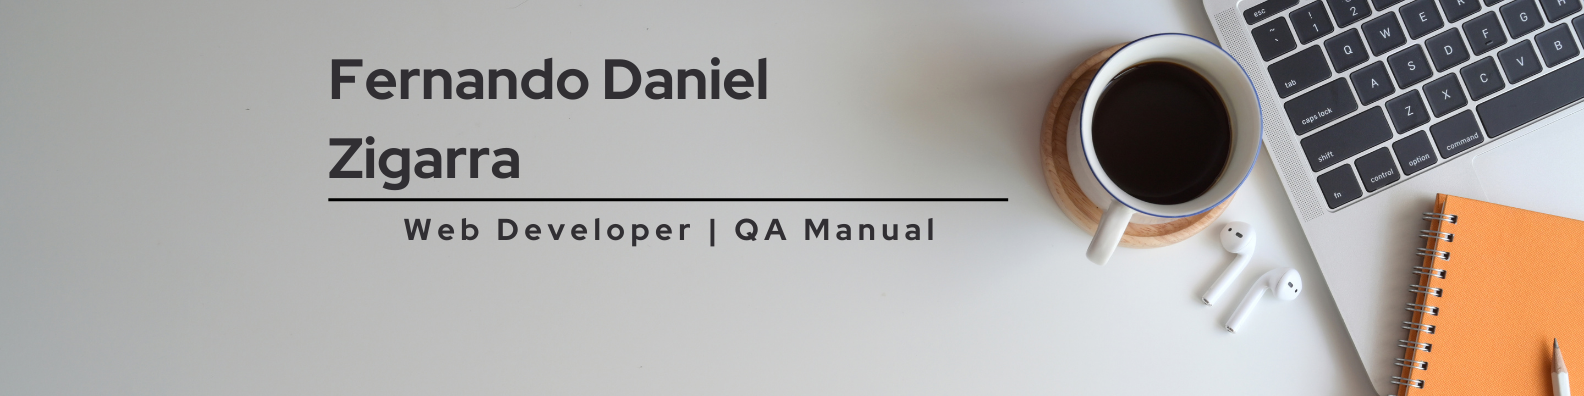
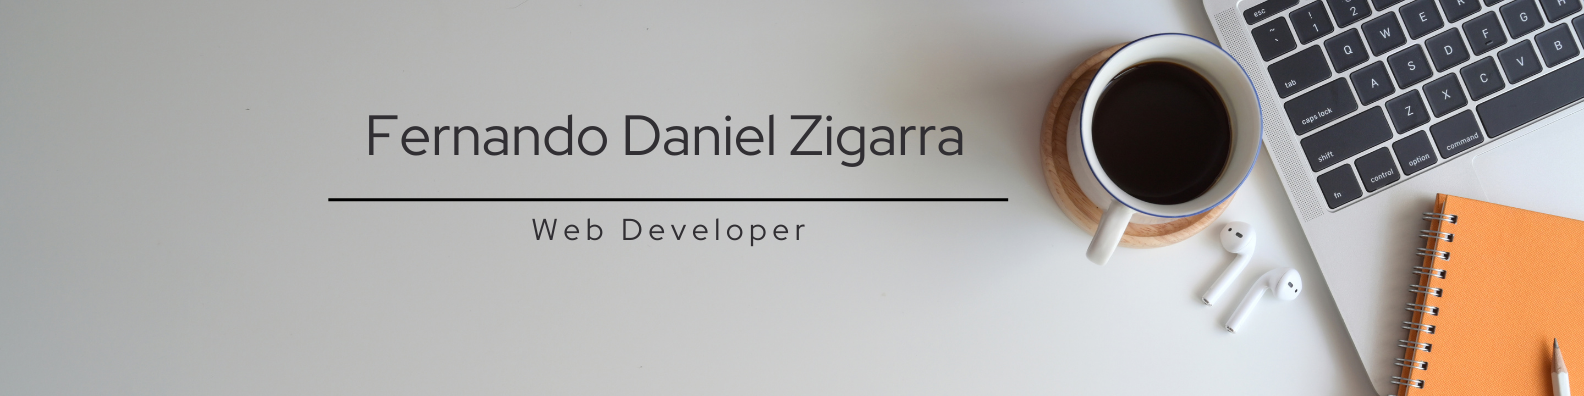
Rework profile

Changed region(s): [[0.1856, 0.1515, 0.6187, 0.4848], [0.2475, 0.5455, 0.5878, 0.6061]]

diff --git a/README.md b/README.md
@@ -1,4 +1,3 @@
-
 <h1 style="text-align: center;"> Hi! I'm <a href="https://porfolio-fernando-zigarra.vercel.app/">Fernando Daniel Zigarra 👋</a></h1>
 <img src="./assets/banner.png" style="width: 100%;object-fit: cover"/>
 
@@ -6,34 +5,70 @@
 [![Forks][forks-shield]][forks-url]
 [![Stargazers][stars-shield]][stars-url]
 
-### 👨🏻💻 &nbsp;About Me
-💡 &nbsp;I like to explore new technologies and develop software solutions and quick hacks.\
-🌱 &nbsp;I’m currently learning Web Development and other programming languages.\
-👯 &nbsp;I’m looking to collaborate on Proyectos.\
-💬 &nbsp;Ask me about Programming or QA Testing
+### 👨🏻💻 &nbsp;Professional Profile
+
+💡 &nbsp;Full Stack Web Developer with experience in **React, Next.js, TypeScript, TailwindCSS, and GraphQL**.  
+🚀 &nbsp;Passionate about **scalable and efficient development**, focusing on **TDD and Agile (Scrum)**.  
+🔧 &nbsp;Experience in **Docker deployments, GitHub version control, and Jira project management**.  
+📌 &nbsp;Strong problem-solving skills and workflow optimization in **agile development environments**.
+
+<img alt="Night Coding" src="https://miro.medium.com/v2/resize:fit:1400/1*yw0TnheAGN-LPneDaTlaxw.gif"/>
+
+</br>
 
 ### 🛠 &nbsp;Tech Stack
-<img alt="Night Coding" src="https://raw.githubusercontent.com/AVS1508/AVS1508/master/assets/Night-Coding.gif" align="right"/>
 
- [![Nodejs][Nodejs.org]][Nodejs-url]
- [![html5][html5.com]][html5-url]
- [![css3][css3.com]][css3-url]
- [![Javascript.js]][Javascript-url]
- ![TypeScript Badge](https://img.shields.io/badge/TypeScript-3178C6?logo=typescript&logoColor=fff&style=for-the-badge)
- ![Python Badge](https://img.shields.io/badge/Python-3776AB?logo=python&logoColor=fff&style=for-the-badge)
- ![Express Badge](https://img.shields.io/badge/Express-000?logo=express&logoColor=fff&style=for-the-badge)
- [![React][React.js]][React-url]
- ![Next.js Badge](https://img.shields.io/badge/Next.js-000?logo=nextdotjs&logoColor=fff&style=for-the-badge)
- [![MySql][MySql.io]][MySql-url]
- ![MongoDB Badge](https://img.shields.io/badge/MongoDB-47A248?logo=mongodb&logoColor=fff&style=for-the-badge)
- [![Bootstrap][Bootstrap.com]][Bootstrap-url]
- ![Tailwind CSS Badge](https://img.shields.io/badge/Tailwind%20CSS-06B6D4?logo=tailwindcss&logoColor=fff&style=for-the-badge)
- ![Jest Badge](https://img.shields.io/badge/Jest-C21325?logo=jest&logoColor=fff&style=for-the-badge)
-![Static Badge](https://img.shields.io/badge/SCRUM-scrum?style=for-the-badge&link=https%3A%2F%2Fwww.scrum.org)
-![Git Badge](https://img.shields.io/badge/Git-F05032?logo=git&logoColor=fff&style=for-the-badge)
-![Jira Software Badge](https://img.shields.io/badge/Jira%20Software-0052CC?logo=jirasoftware&logoColor=fff&style=for-the-badge)
+**Programming Languages:**
 
-<br>
+<p>
+  <img src="https://img.shields.io/badge/JavaScript-35495E?logo=javascript&logoColor=F1C232&style=for-the-badge">
+  <img src="https://img.shields.io/badge/TypeScript-3178C6?logo=typescript&logoColor=fff&style=for-the-badge">
+  <img src="https://img.shields.io/badge/Python-3776AB?logo=python&logoColor=fff&style=for-the-badge">
+</p>
+
+**Frontend:**
+
+<p>
+  <img src="https://img.shields.io/badge/React-20232A?logo=react&logoColor=61DAFB&style=for-the-badge">
+  <img src="https://img.shields.io/badge/Next.js-000?logo=nextdotjs&logoColor=fff&style=for-the-badge">
+  <img src="https://img.shields.io/badge/HTML5-ff821e?logo=html5&logoColor=white&style=for-the-badge">
+  <img src="https://img.shields.io/badge/CSS3-0769AD?logo=css3&logoColor=white&style=for-the-badge">
+  <img src="https://img.shields.io/badge/Tailwind%20CSS-06B6D4?logo=tailwindcss&logoColor=fff&style=for-the-badge">
+  <img src="https://img.shields.io/badge/MUI-007FFF?logo=mui&logoColor=fff&style=for-the-badge">
+</p>
+
+**Backend:**
+
+<p>
+  <img src="https://img.shields.io/badge/Node.js-43853D?logo=node.js&logoColor=white&style=for-the-badge">
+  <img src="https://img.shields.io/badge/Express-000?logo=express&logoColor=fff&style=for-the-badge">
+  <img src="https://img.shields.io/badge/GraphQL-E10098?logo=graphql&logoColor=fff&style=for-the-badge">
+</p>
+
+**Databases:**
+
+<p>
+  <img src="https://img.shields.io/badge/MySQL-4A4A55?logo=mysql&logoColor=88c6ff&style=for-the-badge">
+  <img src="https://img.shields.io/badge/PostgreSQL-336791?logo=postgresql&logoColor=fff&style=for-the-badge">
+  <img src="https://img.shields.io/badge/MongoDB-47A248?logo=mongodb&logoColor=fff&style=for-the-badge">
+</p>
+
+**Testing & Development Practices:**
+
+<p>
+  <img src="https://img.shields.io/badge/Jest-C21325?logo=jest&logoColor=fff&style=for-the-badge">
+  <img src="https://img.shields.io/badge/Vitest-6E9F18?logo=vitest&logoColor=fff&style=for-the-badge">
+  <img src="https://img.shields.io/badge/TDD-Test%20Driven%20Development-red?style=for-the-badge">
+</p>
+
+**Tools & Platforms:**
+
+<p>
+  <img src="https://img.shields.io/badge/Git-F05032?logo=git&logoColor=fff&style=for-the-badge">
+  <img src="https://img.shields.io/badge/Jira%20Software-0052CC?logo=jirasoftware&logoColor=fff&style=for-the-badge">
+  <img src="https://img.shields.io/badge/Docker-2496ED?logo=docker&logoColor=fff&style=for-the-badge">
+  <img src="https://img.shields.io/badge/CI/CD-4CAF50?logo=githubactions&logoColor=fff&style=for-the-badge">
+</p>
 <br>
 <br>
 
@@ -42,13 +77,12 @@
 <img src="https://github-readme-stats.vercel.app/api?username=FernandoDanielZigarra&show_icons=true&theme=radical">
 <img src="https://github-readme-stats.vercel.app/api/top-langs?username=FernandoDanielZigarra&layout=compact&theme=radical" >
 
-
 ### 🤝🏻 &nbsp;Connect with Me
+
 [![LinkedIn][linkedin-shield]][linkedin-url]
 <a href="mailto:fernando.zigarra@gmail.com" target="_blank">
 <img src="https://img.shields.io/badge/Gmail-D14836?style=for-the-badge&logo=gmail&logoColor=white">
 </a>
-
 
 [contributors-shield]: https://img.shields.io/github/contributors/DiCerso/grupo_5_Vive-Bio.svg?style=for-the-badge
 [contributors-url]: https://github.com/DiCerso/grupo_5_Vive-Bio/graphs/contributors
